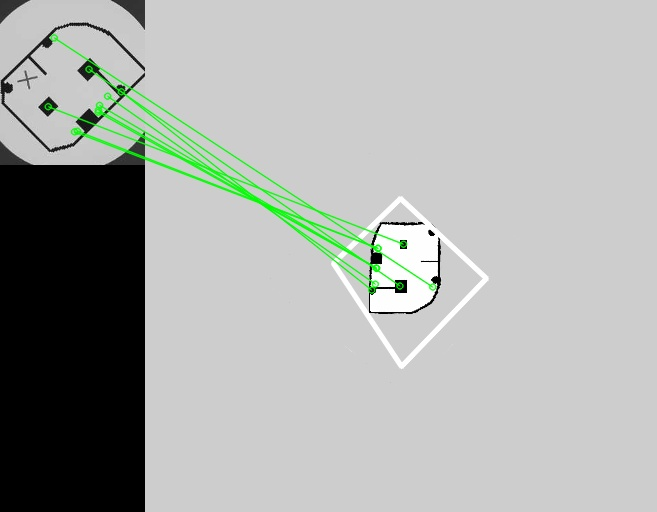
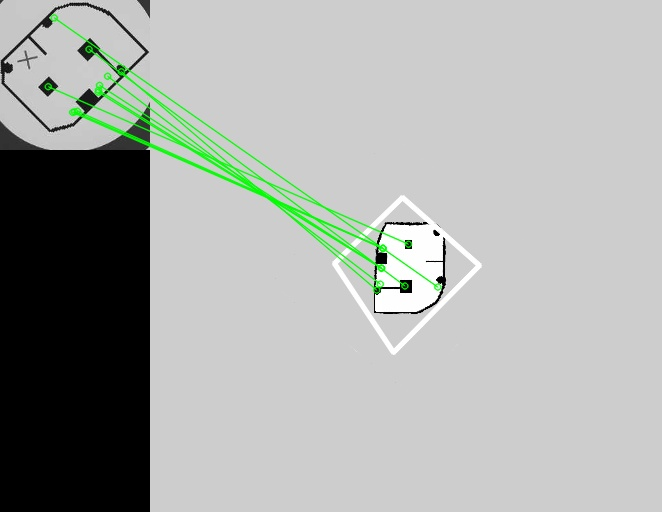
dodan cas v cyl_seg

Changed region(s): [[0.0, 0.0, 0.761, 1.0]]

diff --git a/src/task3/scripts/read_map.py b/src/task3/scripts/read_map.py
@@ -28,6 +28,8 @@ params =  cv2.aruco.DetectorParameters_create()
 def read_map_from_img():
 	# parameter za spodnjo mejo iskanja projekcije
 	MIN_MATCH_COUNT = 10
+	# parameter za velikost krizca v pikslih
+	krizecSize = 20
 	
 	## preberi sliko ---------- 	
 	
@@ -91,14 +93,14 @@ def read_map_from_img():
 
 			h, status = cv2.findHomography(src_points, out_pts)
 			img_out = cv2.warpPerspective(cv_image, h, (img_out.shape[1],img_out.shape[0]))
-			#cv2.imwrite('/home/kikot/ROS/uncropped_image.jpg', img_out)			
+			cv2.imwrite('/home/kikot/ROS/uncropped_image.jpg', img_out)			
 			
 			###################################################
 			## racunanje homografije za zemljevid
 			##################################################
 
 			## SURF ----------
-			img = img_out[95:260,55:200]
+			img = img_out[115:265,55:205]
 			#cv2.imwrite('/home/kikot/ROS/cropped_image.jpg', img)
 
 			h,w = img.shape
@@ -159,6 +161,16 @@ def read_map_from_img():
 	
 	
 	## poisci rdeci krizec ----------
+	kriz_img = cv2.imread('/home/kikot/ROS/krizec.png', 0)
+	kriz_hist, kriz_bins = np.histogram(img.ravel(),256,[0,256])
+	plt.hist(img.ravel(),256,[0,256]); plt.show()
+	
+	for i in range(0, h):
+		for j in range(0, w):
+			#preveri, ali je ta del znotraj vcrtane kroznice
+			
+			#preveri, ali ima vec rdece kot ostalo
+			print("")
 	
 	# TODO
 	# poiscemo krizec na sliki in ga preslikamo na zemljevid : dest = cv2.perspectiveTransform(krizec,M)

diff --git a/src/task3/src/cylinder_segmentation.cpp b/src/task3/src/cylinder_segmentation.cpp
@@ -1,5 +1,6 @@
 #include <iostream>
 #include <ros/ros.h>
+#include <time.h>
 #include <math.h>
 #include <visualization_msgs/Marker.h>
 #include <sensor_msgs/PointCloud2.h>
@@ -34,6 +35,13 @@ void
 cloud_cb (const pcl::PCLPointCloud2ConstPtr& cloud_blob)
 {
   // All the objects needed
+  
+  // start time
+  time_t timer;
+  //struct tm y2k = {0}
+  double seconds;
+  time(&timer);
+  
 
   ros::Time time_rec, time_test;
   time_rec = ros::Time::now();
@@ -132,7 +140,7 @@ cloud_cb (const pcl::PCLPointCloud2ConstPtr& cloud_blob)
   seg.setModelType (pcl::SACMODEL_CYLINDER);
   seg.setMethodType (pcl::SAC_RANSAC);
   seg.setNormalDistanceWeight (0.1);
-  seg.setMaxIterations (10000);
+  seg.setMaxIterations (20000);
   seg.setDistanceThreshold (0.05);
   seg.setRadiusLimits (0.10, 0.15);
   seg.setInputCloud (cloud_filtered2);
@@ -249,8 +257,10 @@ cloud_cb (const pcl::PCLPointCloud2ConstPtr& cloud_blob)
           pcl::toPCLPointCloud2 (*cloud_cylinder, outcloud_cylinder);
           puby.publish (outcloud_cylinder);
 
-    
-
+    // end time
+    time_t timer2;
+		time(&timer2);
+		std::cerr << "Celotni cas: " << difftime(timer, timer2) << std::endl;
   }
   
 }
